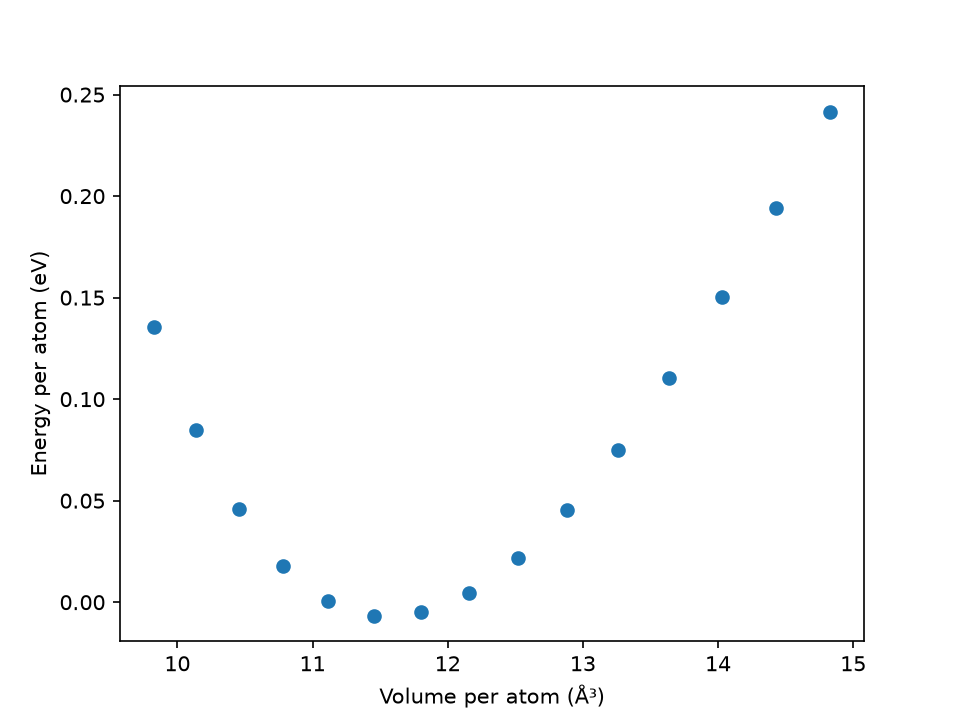
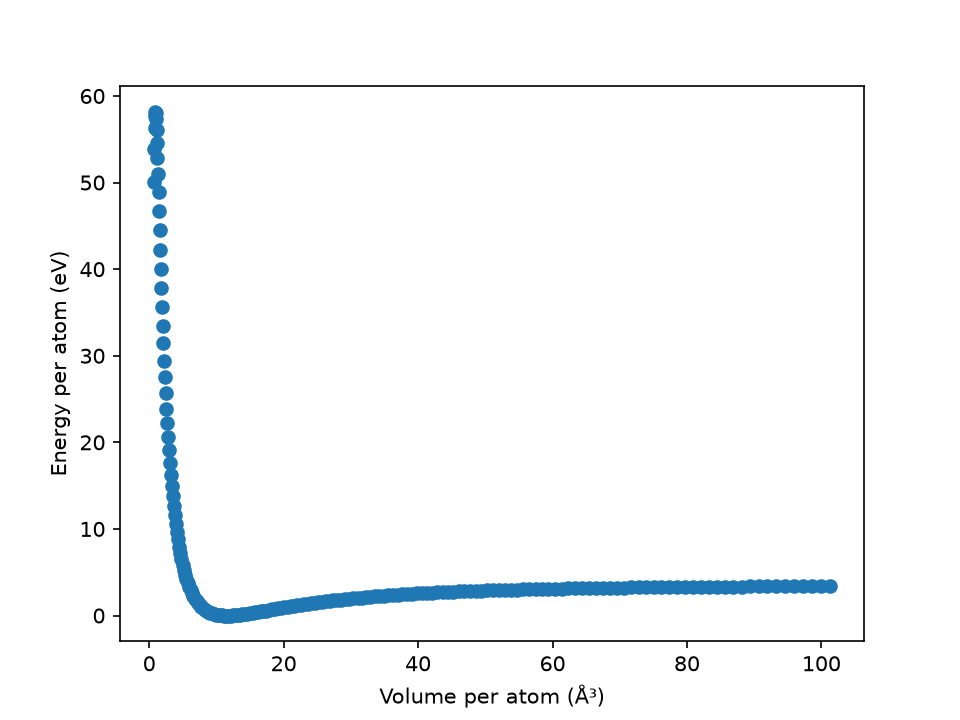
commit

diff --git a/MACE_test1.py b/MACE_test1.py
@@ -5,4 +5,32 @@ import matplotlib.pyplot as plt
 from mace.calculators import mace_mp
 
 calc = mace_mp(model="medium")
-atoms.calc = calc
+volumes, energies = [], []
+
+for a in np.linspace(4.025, 4.075, 10):
+    atoms = bulk("Al", "fcc", a=a, cubic=True)
+    atoms.calc = calc
+    volumes.append(atoms.get_volume() / len(atoms))
+    energies.append(atoms.get_potential_energy() / len(atoms))
+
+c2, c1, c0 = np.polyfit(volumes, energies, 2)
+V0 = -c1 / (2 * c2)
+curvature = 2 * c2
+v_fit = np.linspace(min(volumes), max(volumes), 100)
+e_fit = c2 * v_fit**2 + c1 * v_fit + c0
+
+plt.plot(volumes, energies, "o", label="MACE Data")
+plt.plot(v_fit, e_fit, "--", label="Parabolic Fit")
+plt.axvline(V0, color="red", linestyle=":", label=f"V0 = {V0:.2f} Å³")
+plt.xlabel("Volume per atom (Å³)")
+plt.ylabel("Energy per atom (eV)")
+plt.title("Aluminium Energy vs Volume Surface Fit")
+plt.legend()
+plt.savefig("aluminium_fit.png", dpi=150)
+
+print(f"Equilibrium Volume (V0): {V0:.4f} Å³")
+print(f"Curvature (d²E/dV²):     {curvature:.4f} eV/Å⁶")
+
+bulk_modulus_eV = V0 * curvature
+bulk_modulus_GPa = bulk_modulus_eV * 160.21766
+print(bulk_modulus_GPa)

diff --git a/main.py b/main.py
@@ -4,7 +4,7 @@ import numpy as np
 import matplotlib.pyplot as plt
 
 volumes, energies = [], []
-for a in np.linspace(3.4, 3.9, 15):
+for a in np.linspace(1.4, 7.4, 180):
     atoms = bulk("Cu", "fcc", a=a, cubic=True)
     atoms.calc = EMT()
     volumes.append(atoms.get_volume() / len(atoms))
